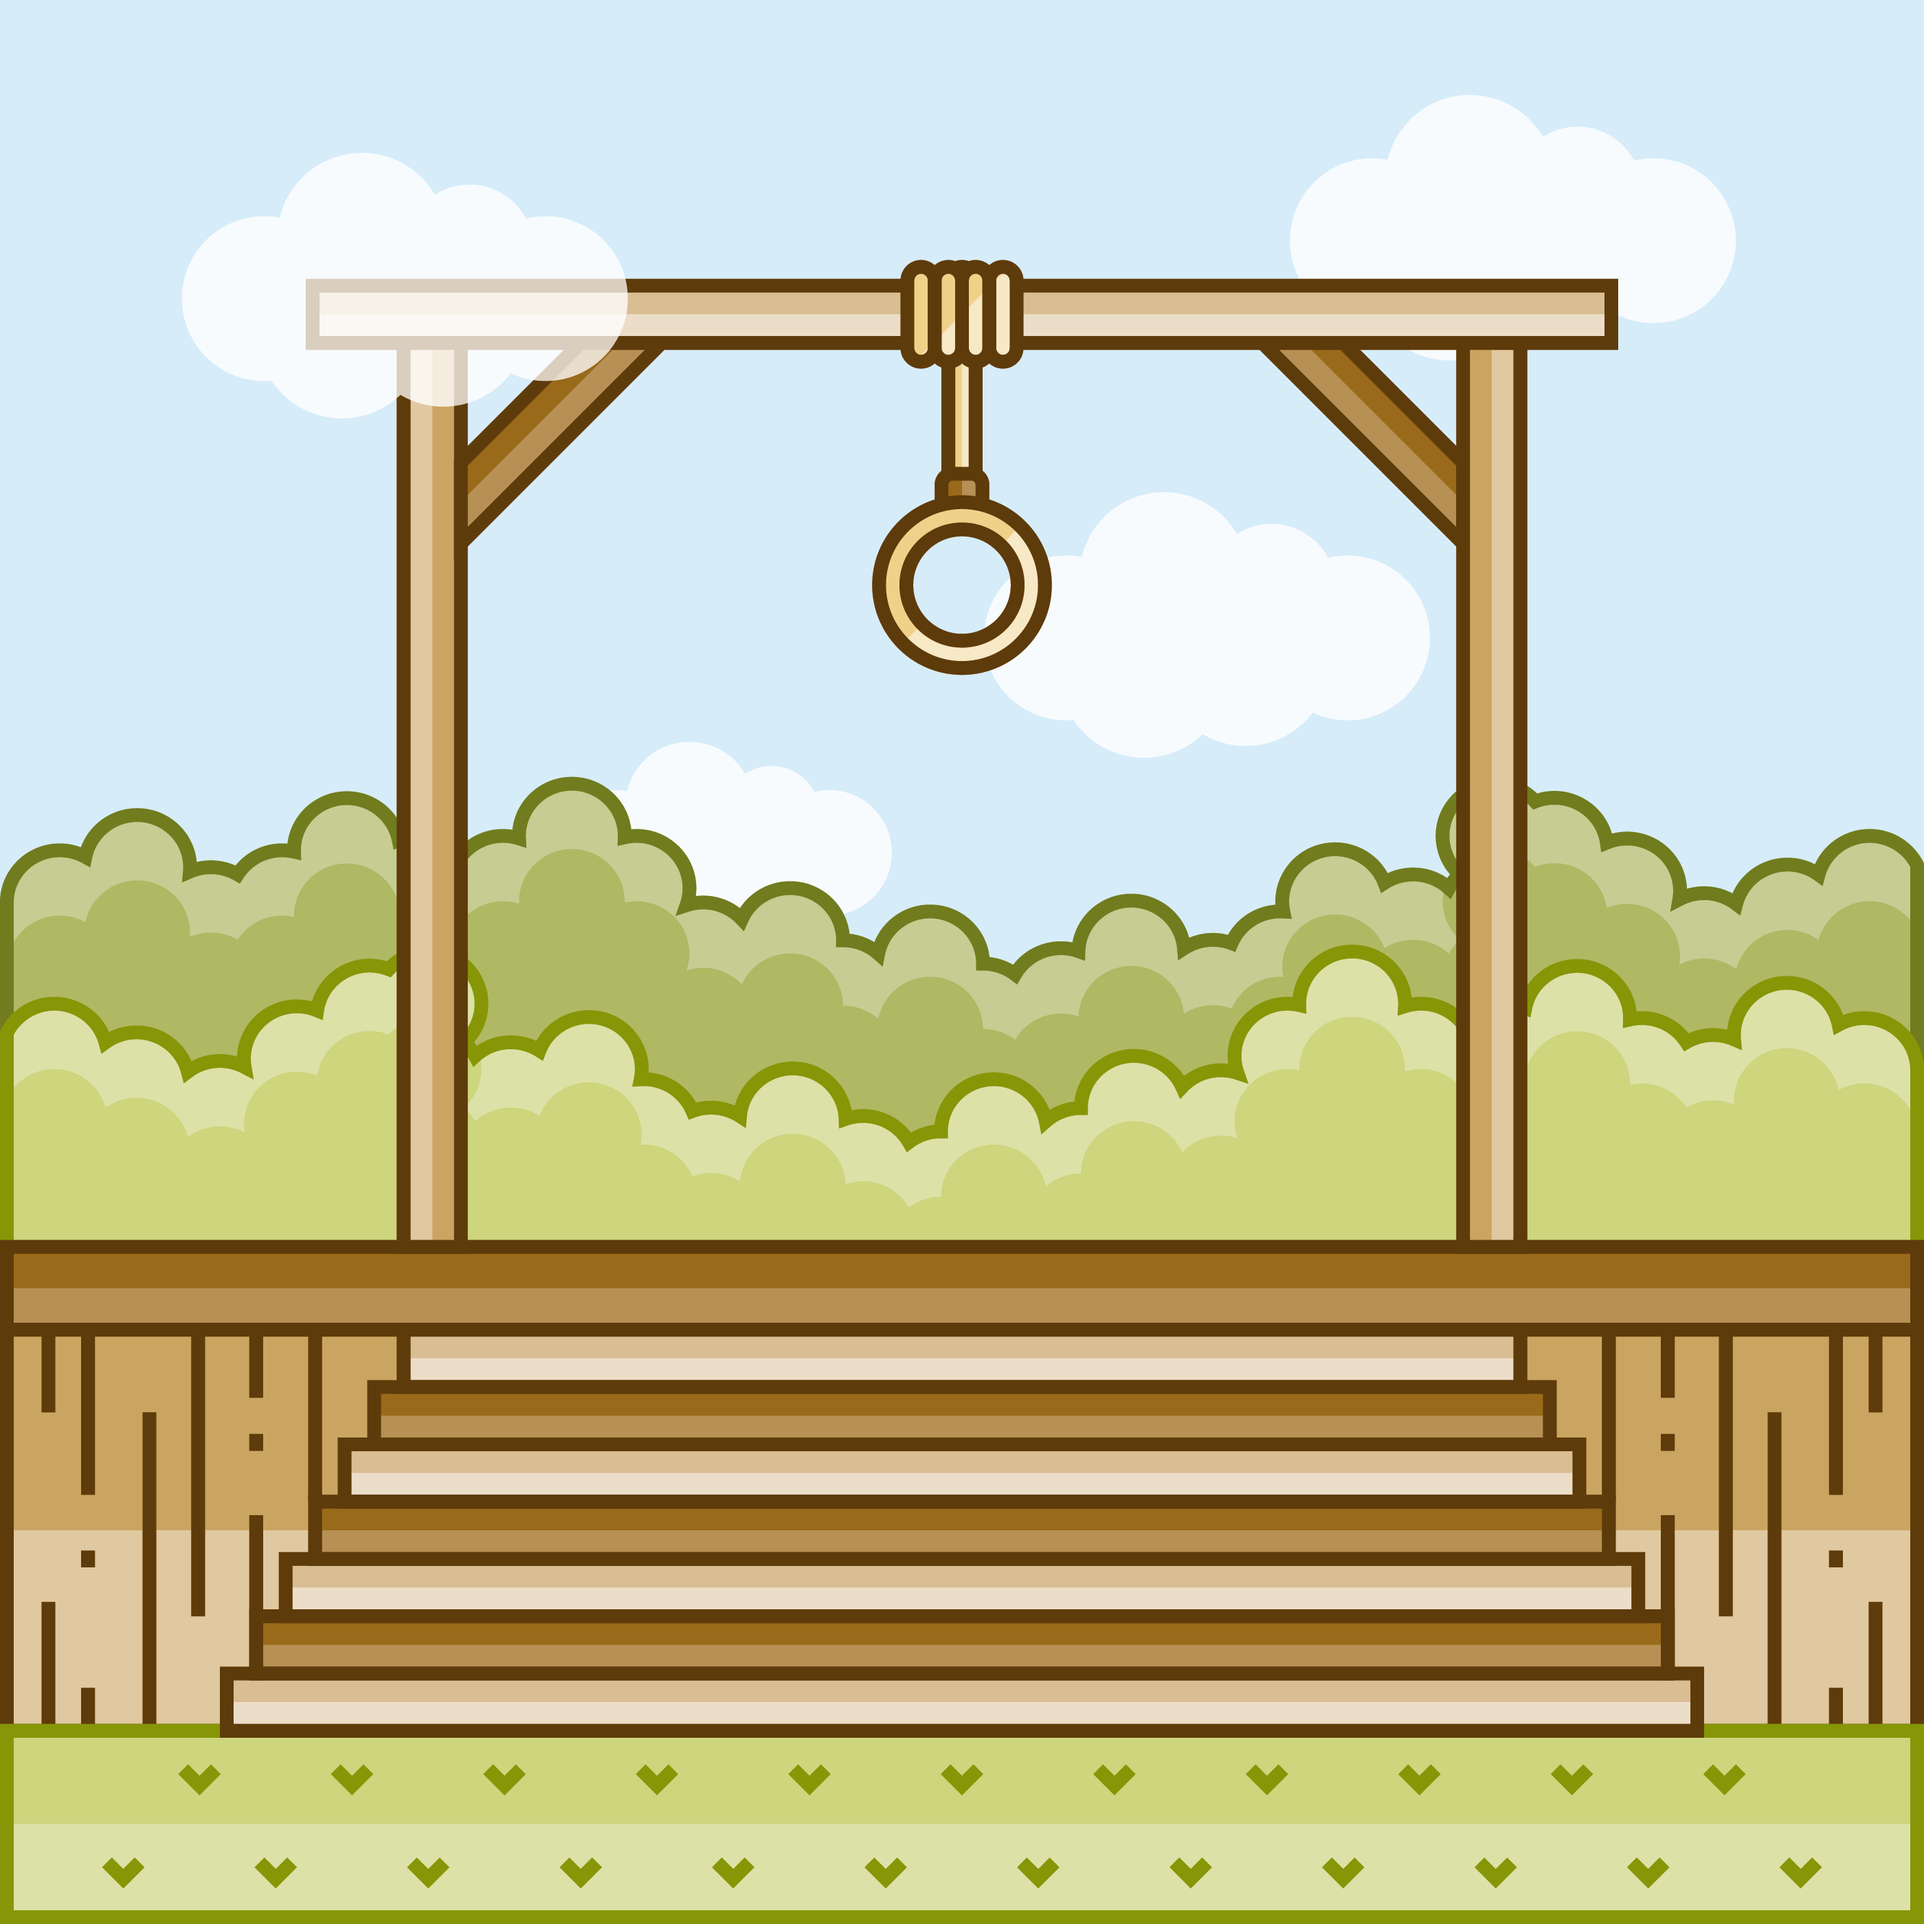
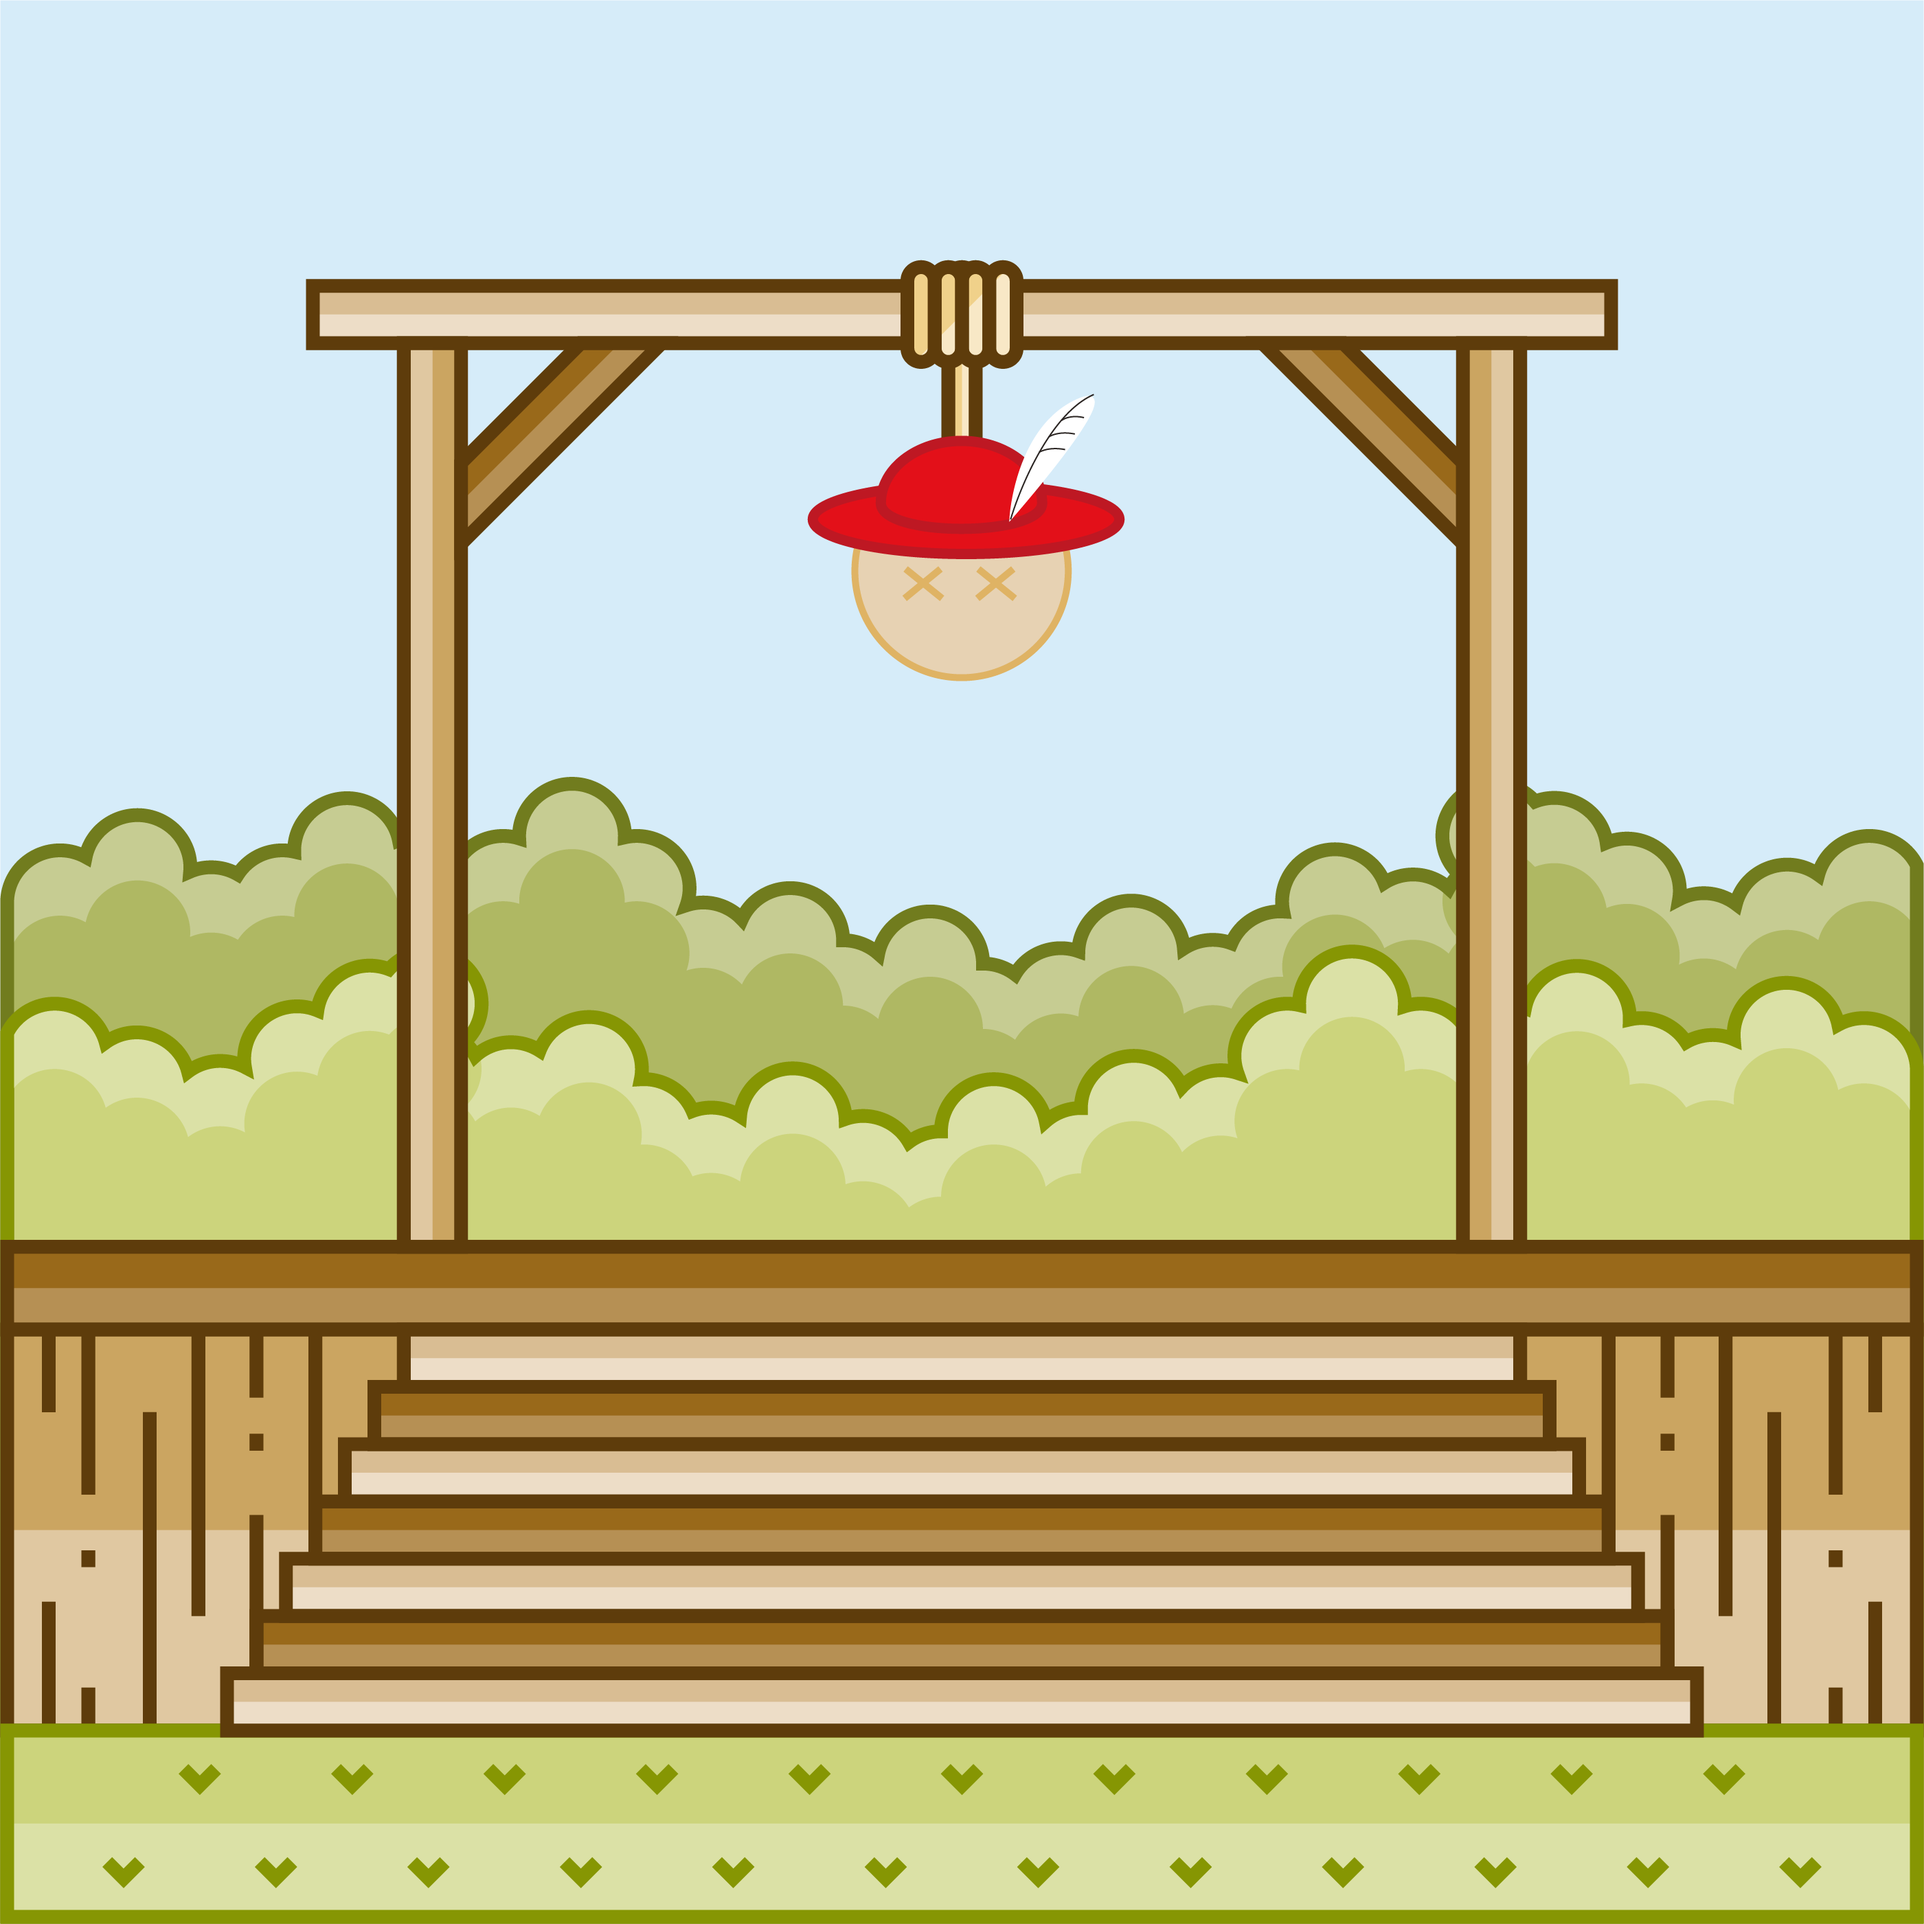
html css update

diff --git a/messy-hangman-refactor-kata-master/index.html b/messy-hangman-refactor-kata-master/index.html
@@ -16,7 +16,7 @@
       <h3>[no people will actually be harmed during this game]</h3>
     </div>
     <div class="gallows">
-      <img src="./assets/Gallows1.png">
+      <img src="./assets/Gallows0.png">
     </div>
 
 
@@ -44,9 +44,11 @@
       <div class="guessed_letters"></div>
       <p class="lives">You have <span></span> lives remaining</p>
     </div>
-
   </wrapper>
   <script type="text/javascript" src="script.js"></script>
+  <footer>
+    <a href="https://www.vecteezy.com/free-vector/gallows">Gallows Vectors by Vecteezy</a>
+  </footer>
 </body>
 
 </html>

diff --git a/messy-hangman-refactor-kata-master/script.js b/messy-hangman-refactor-kata-master/script.js
@@ -138,5 +138,10 @@ document.addEventListener("DOMContentLoaded", function () {
   beginTheGameWithPlayer();
 });
 
+function hangmanUpdate(tries) {
+  let x = tries
+  document.querySelector(".gallows img").src = `./assets/Gallows${x}.png`;
+}
+
 //exporteert beide constanten
-module.exports = {wordList, wordpicker};
+module.exports = { wordList, wordpicker };

diff --git a/messy-hangman-refactor-kata-master/style.css b/messy-hangman-refactor-kata-master/style.css
@@ -72,3 +72,8 @@ button {
   font-weight: 1000;
   font-size: 2em;
 }
+
+/* function hangmanUpdate(tries) {
+  let x = tries
+  document.querySelector(".gallows img").src = `./assets/Gallows${x}.png`;
+} */
